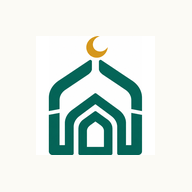
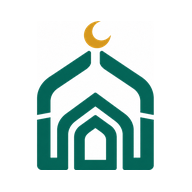
Add files via upload

diff --git a/service-worker.js b/service-worker.js
@@ -1,12 +1,12 @@
 // BAITUNA - service-worker.js
 // Cache aset statis agar aplikasi cepat dan bisa dibuka offline (hanya tampilan dasar).
 // Data Supabase TIDAK pernah disimpan di cache.
-const CACHE = 'baituna-static-v73';
+const CACHE = 'baituna-static-v74';
 const ASSETS = [
   './', 'index.html', 'style.css', 'components.css', 'responsive.css',
   'config.js', 'supabase.js', 'auth.js', 'router.js', 'permissions.js', 'ui.js',
   'mosque-service.js', 'public-service.js', 'directory.js', 'schedule-ui.js', 'calendar-ui.js', 'photo.js', 'posts-ui.js', 'feed-ui.js', 'world-ui.js', 'history-ui.js', 'history-service.js', 'quran-ui.js', 'mushaf-ui.js', 'nearby-ui.js', 'nearby-service.js', 'leaflet.js', 'leaflet.css', 'jadwal-ui.js', 'cities-id.js', 'profil-ui.js', 'profile-service.js', 'sunnah-ui.js', 'belajar-ui.js', 'asma-ui.js', 'asma-service.js', 'tracker-ui.js', 'tracker-service.js', 'zakat-ui.js', 'zakat-service.js', 'market-ui.js', 'puasa-service.js', 'amalan-service.js', 'gerhana-data.js', 'notif-service.js', 'sunnah-link.js', 'page-ui.js', 'qibla-service.js', 'qibla-ui.js', 'ramadan-service.js', 'ramadan-ui.js', 'adzan-service.js', 'adzan-ui.js', 'push-service.js', 'saran-ui.js', 'qa-ui.js', 'qa-service.js', 'books-ui.js', 'books-service.js', 'tokens.css','home.css','pages.css','pasang.html','prayer-icons.js','nav-config.js','home-ui.js','quick-catalog.js','branding-service.js','branding-ui.js', 'ui-kit.css', 'masjid-hero.svg', 'art-banner.svg', 'art-buku.svg', 'art-pasar.svg', 'kas-ui.js', 'kas-service.js', 'jamaah-ui.js', 'jamaah-service.js', 'audit-ui.js', 'audit-service.js', 'page-service.js', 'page-defaults.js', 'notif-ui.js', 'market-service.js', 'market-admin-ui.js', 'asma-edit-service.js', 'asma-admin-ui.js', 'asmaul-husna.json', 'asmaul-husna-audio.json', 'belajar-service.js', 'belajar-data.js', 'sunnah-service.js', 'doa-ui.js', 'doa-service.js', 'dzikir-ui.js', 'dzikir-service.js', 'dzikir-sound.js', 'articles-ui.js', 'articles-service.js', 'rukun-ui.js', 'rukun-service.js', 'quran-service.js', 'world-service.js', 'post-service.js', 'post-time.js', 'prayer-times.js', 'islamic-calendar.js', 'team-panel.js', 'dashboard-admin.js', 'dashboard-member.js', 'dashboard-mosque.js', 'app.js',
-  'AmiriQuran-Regular.ttf', 'ScheherazadeNew-Regular.ttf', 'logo.png', 'masjid.svg', 'manifest.json', 'icon-192.png', 'icon-512.png'
+  'AmiriQuran-Regular.ttf', 'ScheherazadeNew-Regular.ttf', 'logo.png', 'masjid.svg', 'manifest.json', 'icon-192.png', 'icon-512.png', 'icon-maskable-512.png', 'apple-touch-icon.png'
 ];
 
 self.addEventListener('install', e => {

diff --git a/pasang.html b/pasang.html
@@ -8,7 +8,7 @@
 <title>Pasang BAITUNA</title>
 <link rel="manifest" href="manifest.json">
 <link rel="icon" href="icon-192.png">
-<link rel="apple-touch-icon" href="icon-192.png">
+<link rel="apple-touch-icon" href="apple-touch-icon.png">
 <link rel="stylesheet" href="tokens.css">
 <style>
 *{box-sizing:border-box}
@@ -86,6 +86,9 @@ ol li b{color:#064B3D}
       <li><span>Gulir lalu pilih <b>Tambah ke Layar Utama</b> (<b>Add to Home Screen</b>).</span></li>
       <li><span>Ketuk <b>Tambah</b>. Ikon BAITUNA muncul di layar utama.</span></li>
     </ol>
+    <button class="btn" id="btn-share" type="button" hidden>
+      <svg viewBox="0 0 24 24"><path d="M12 15V4M8 8l4-4 4 4M6 12v7a1 1 0 0 0 1 1h10a1 1 0 0 0 1-1v-7"/></svg>Buka menu Bagikan
+    </button>
     <div class="note">Jika memakai Chrome di iPhone, buka halaman ini di <b>Safari</b> terlebih dahulu.</div>
   </section>
 
@@ -119,7 +122,16 @@ ol li b{color:#064B3D}
 
   if (standalone) { show('p-done'); $('p-use').hidden = true; return; }
   if (inApp) { show('p-inapp'); return; }
-  if (isIOS) { show('p-ios'); return; }
+  if (isIOS) {
+    show('p-ios');
+    if (navigator.share) {
+      $('btn-share').hidden = false;
+      $('btn-share').addEventListener('click', function () {
+        navigator.share({ title: 'BAITUNA', url: location.href }).catch(function () {});
+      });
+    }
+    return;
+  }
 
   if (isAndroid) show('p-android'); else show('p-other');
 

diff --git a/profil-ui.js b/profil-ui.js
@@ -21,7 +21,7 @@ import { READING_SIZES, readingPrefs, saveReadingPrefs, lastRead } from './quran
 import { listSurahs } from './quran-service.js';
 import { legalView } from './page-ui.js';
 
-export const APP_VERSION = 'v85';
+export const APP_VERSION = 'v86';
 // Semua data yang disimpan di perangkat (tanpa sesi masuk). Dihapus lewat "Hapus data di perangkat ini".
 const DEVICE_KEYS = ['baituna.dzikir.v1', 'baituna.tasbih.v1', 'baituna.sound.v1', 'baituna.loc.v1', 'baituna.doa.fav.v1', 'baituna.sunnah.v1', 'baituna.belajar.v1', 'baituna.asma.v1', 'baituna.zakat.v1', 'baituna.tracker.v1', 'baituna.quranpref.v1', 'baituna.qari.v1', 'baituna.quranlast.v1', 'baituna.quranpage.v1', 'baituna.mushaftheme.v1', 'baituna.mushafawake.v1', 'baituna.mushafswipe.v1', 'baituna.quranmode.v1', 'baituna.notif.v1', 'baituna.notifseen.v1', 'baituna.ramadan.v1', 'baituna.ramadancache.v1', 'baituna.adzanlib.v1', 'baituna.push.v1', 'baituna.qa.v1', 'baituna.qa.vote.v1', 'baituna.books.v1', 'baituna.brand.v1'];
 const SIZE_LABEL = ['Kecil', 'Sedang', 'Besar', 'Lebih besar', 'Terbesar'];

diff --git a/index.html b/index.html
@@ -4,10 +4,14 @@
 <meta charset="UTF-8">
 <meta name="viewport" content="width=device-width, initial-scale=1, viewport-fit=cover">
 <meta name="theme-color" content="#086653">
+<meta name="mobile-web-app-capable" content="yes">
+<meta name="apple-mobile-web-app-capable" content="yes">
+<meta name="apple-mobile-web-app-title" content="BAITUNA">
+<meta name="apple-mobile-web-app-status-bar-style" content="default">
 <title>BAITUNA — Satu Masjid, Banyak Manfaat</title>
 <link rel="manifest" href="manifest.json">
 <link rel="icon" href="icon-192.png">
-<link rel="apple-touch-icon" href="icon-192.png">
+<link rel="apple-touch-icon" href="apple-touch-icon.png">
 <link rel="stylesheet" href="tokens.css">
 <link rel="stylesheet" href="style.css">
 <link rel="stylesheet" href="components.css">
